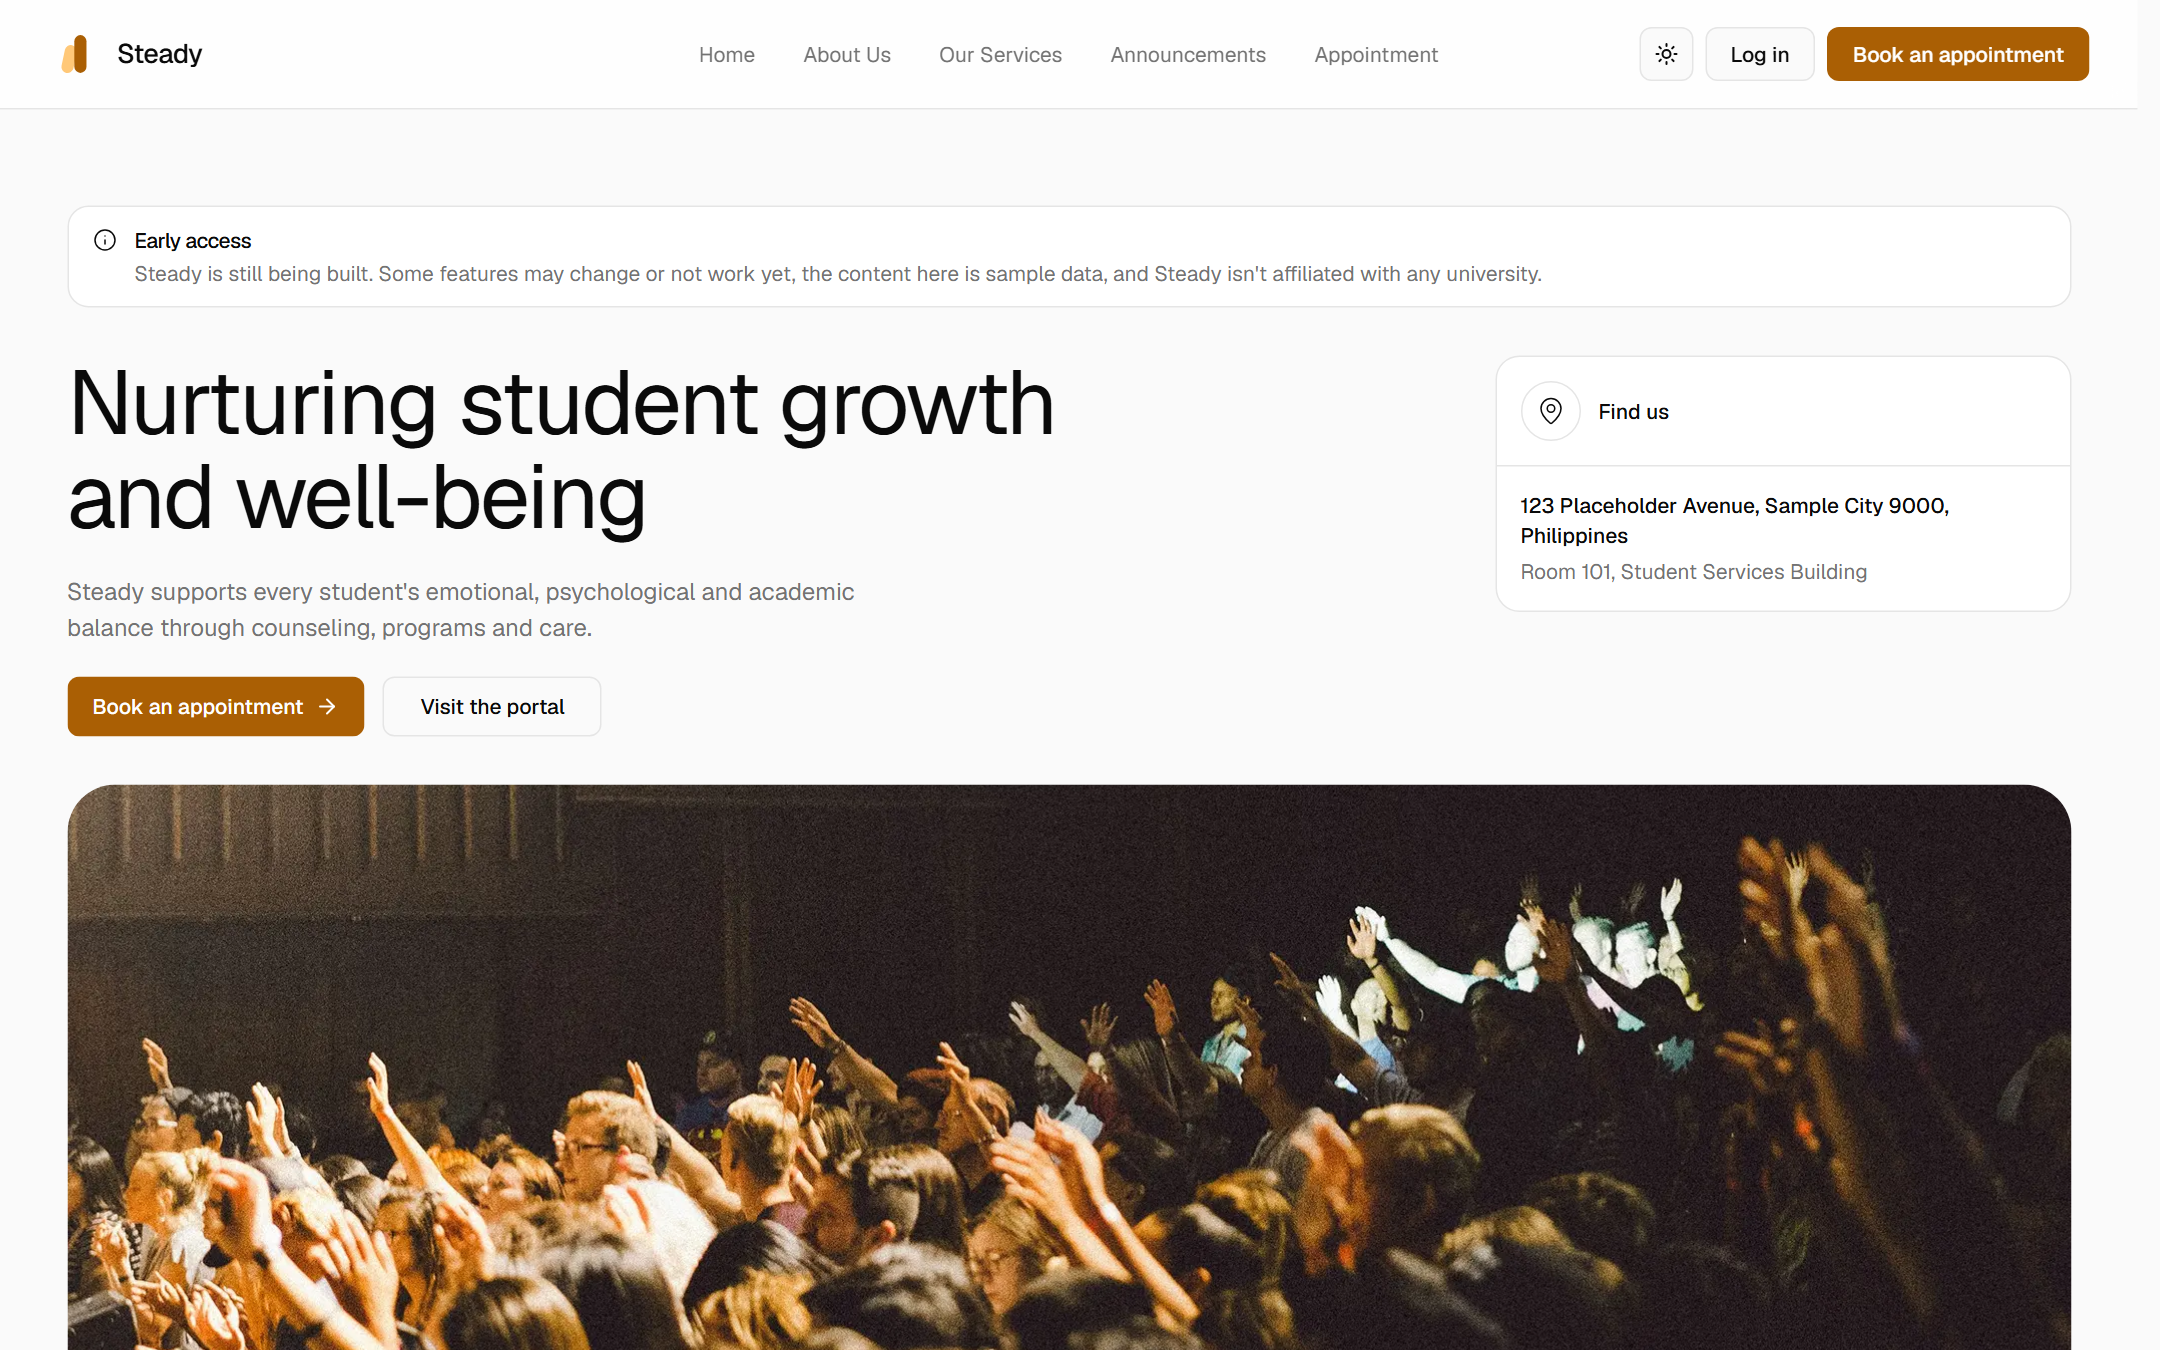
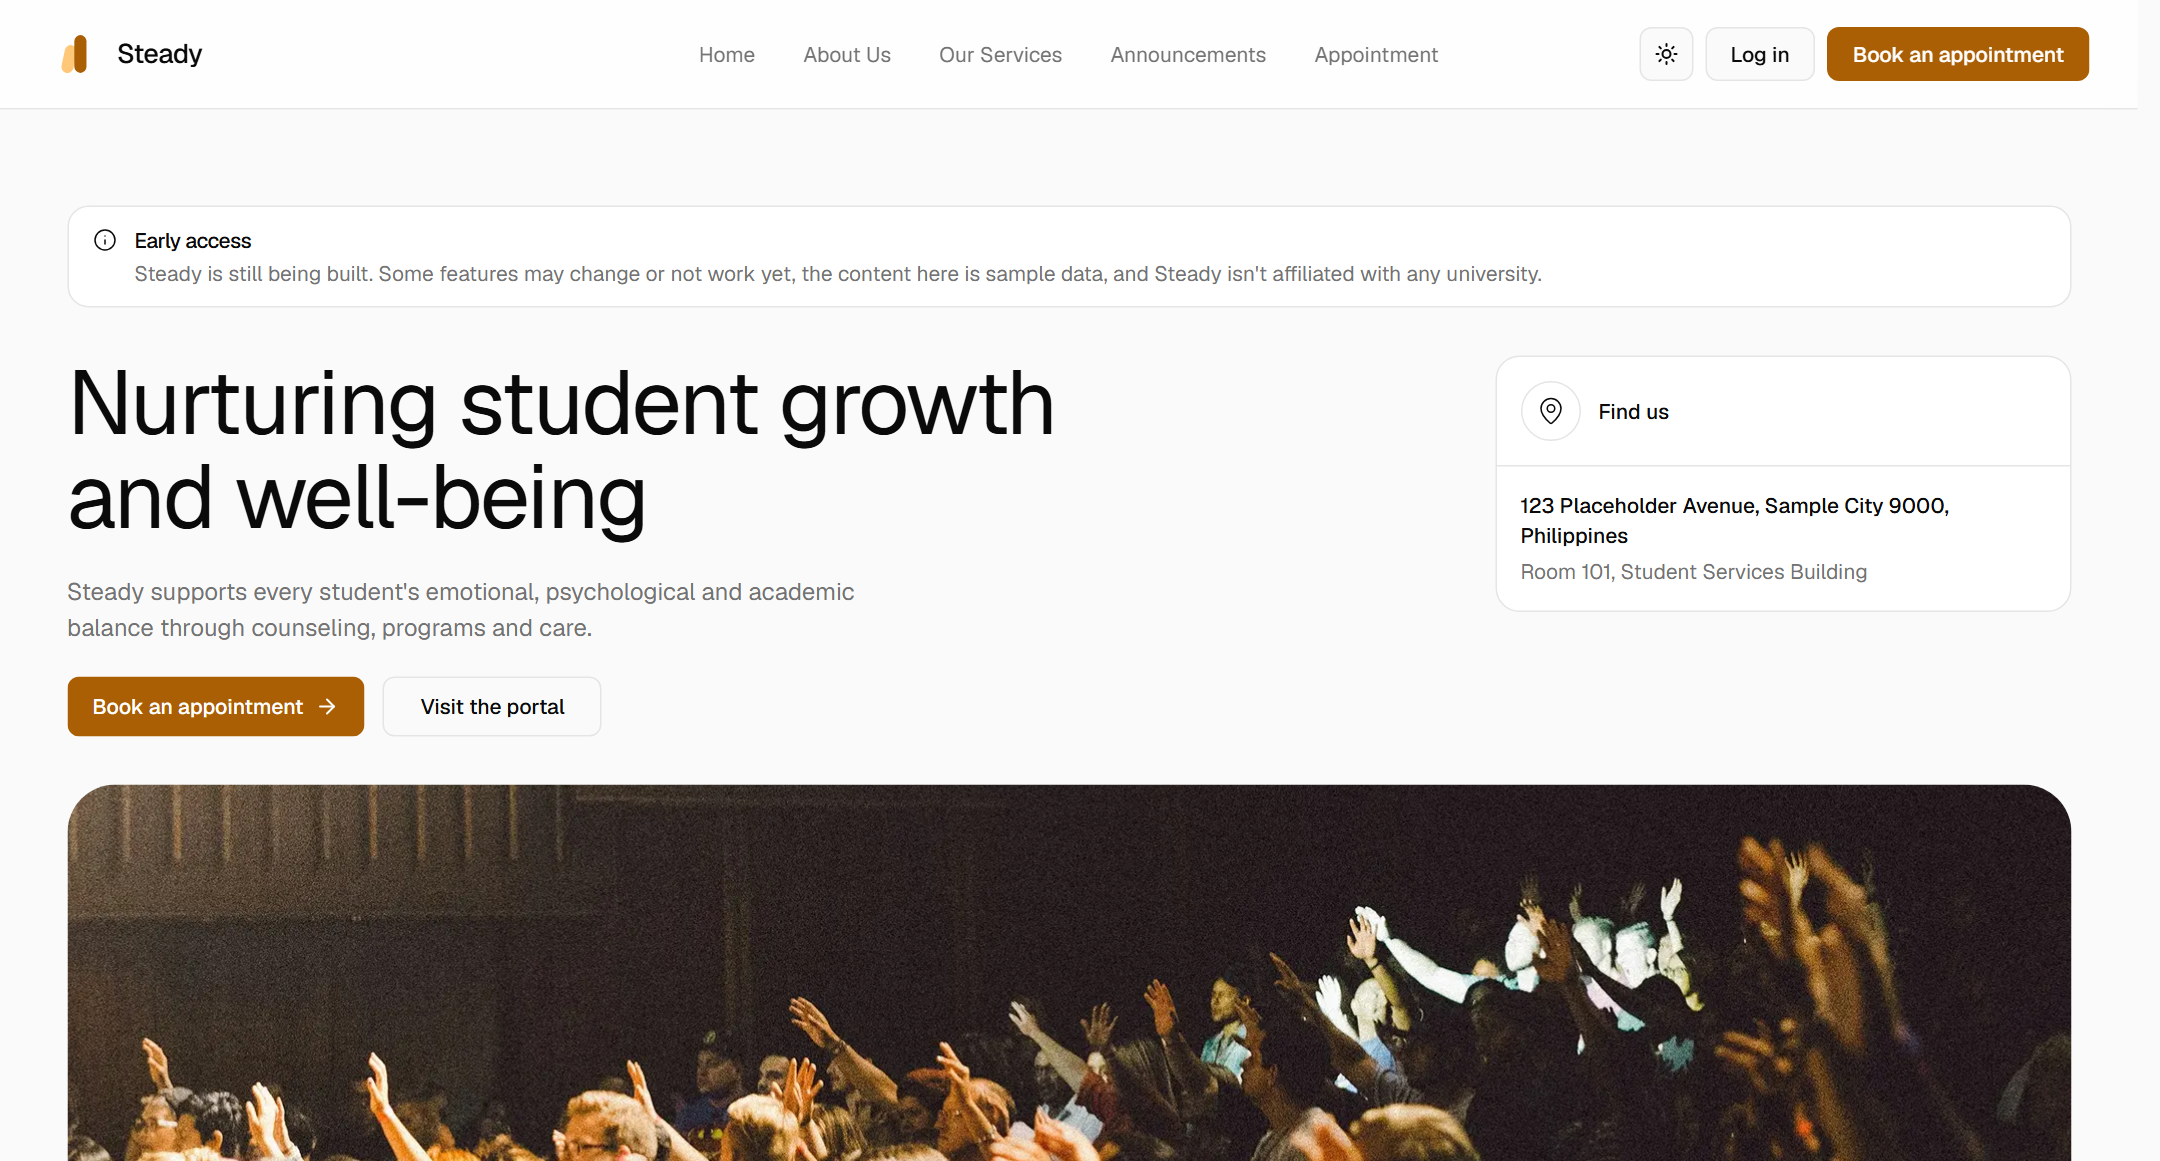
fix: rework steady copy

diff --git a/lib/portfolio-data.ts b/lib/portfolio-data.ts
@@ -144,7 +144,7 @@ export const projectsData: ProjectsData = {
       category: "Major Project / Lead Developer",
       title: "Steady: Student Guidance and Counselling Platform",
       summary:
-        "A platform for booking and managing counselling sessions, with live notifications, mood-based resources and separate areas for students, counsellors and administrators. It began as a university guidance office project, and was later audited, rebuilt and relaunched as Steady — an independent early-access product, not affiliated with any university.",
+        "A web platform for a school’s guidance and counselling office. Students book sessions with their department’s counsellor, check in on how they are feeling, and get articles and playlists picked for that mood. Counsellors decide on requests and keep their own schedule. Administrators run accounts, publish content, and watch the service on a dashboard.",
       links: [
         {
           label: "Live deployment",
@@ -155,17 +155,17 @@ export const projectsData: ProjectsData = {
         {
           id: "steady-home",
           title: "Public homepage",
-          description: "Public landing page with the early-access notice",
+          description: "The public landing page, open to visitors without an account",
           imageSrc: cloudinaryAsset(
             "portfolio/projects/steady/steady-home.png",
           ),
           imageAlt:
-            "Steady public homepage, headed “Nurturing student growth and well-being”.",
+            "Steady homepage, headed “Nurturing student growth and well-being”.",
         },
         {
           id: "steady-portal",
           title: "Resource portal",
-          description: "Curated articles, playlists and events, open to visitors",
+          description: "Curated articles, playlists and events, also open to visitors",
           imageSrc: cloudinaryAsset(
             "portfolio/projects/steady/steady-portal.png",
           ),
@@ -175,12 +175,42 @@ export const projectsData: ProjectsData = {
         {
           id: "steady-signup",
           title: "Student registration",
-          description: "Account creation with enrollment and informed consent",
+          description: "Account creation with enrollment details and informed consent",
           imageSrc: cloudinaryAsset(
             "portfolio/projects/steady/steady-signup.png",
           ),
           imageAlt:
             "Steady student sign-up form covering personal details, enrollment and emergency contacts.",
+        },
+        {
+          id: "steady-student",
+          title: "Student dashboard",
+          description: "Mood check-in, profile and emergency contacts in one place",
+          imageSrc: cloudinaryAsset(
+            "portfolio/projects/steady/steady-student.png",
+          ),
+          imageAlt:
+            "Steady student dashboard with a mood check-in, profile details and emergency contacts.",
+        },
+        {
+          id: "steady-admin-dashboard",
+          title: "Analytics dashboard",
+          description: "Requests, pending sessions and visitor trend for the office",
+          imageSrc: cloudinaryAsset(
+            "portfolio/projects/steady/steady-admin-dashboard.png",
+          ),
+          imageAlt:
+            "Steady admin dashboard showing appointment counts, registered students and a site-visitor chart.",
+        },
+        {
+          id: "steady-admin-accounts",
+          title: "Account administration",
+          description: "Server-paginated account table with the record editor open",
+          imageSrc: cloudinaryAsset(
+            "portfolio/projects/steady/steady-admin-accounts.png",
+          ),
+          imageAlt:
+            "Steady admin accounts table with a student record open for editing.",
         },
       ],
       stack: {
@@ -221,27 +251,31 @@ export const projectsData: ProjectsData = {
         {
           title: "Role",
           description:
-            "Lead developer, on a team of five, submitted as a project research paper in December 2025 — with Gerlie Campion, Francis Adrian Esteban, Jhey Gulde, and Kathleen Grace Gultiano. I later audited, rebuilt and rebranded it on my own.",
+            "Lead developer, on a team of five, submitted as a project research paper in December 2025 — with Gerlie Campion, Francis Adrian Esteban, Jhey Gulde, and Kathleen Grace Gultiano.",
         },
         {
           title: "Timeline",
-          description:
-            "About 4 months for the original build, then a solo rebuild in September 2026.",
+          description: "About 4 months.",
         },
         {
           title: "Approach",
           description:
-            "Three roles — student, counsellor, admin — that get genuinely different areas rather than the same screens with buttons hidden. Access control lives in the database, not the interface: row-level security on every table, plus guard triggers for the rules the UI cannot be trusted with, like a student cancelling only their own booking or a slot refusing to be double-booked. Notifications work the same way — only database triggers create them, so no client can forge one, and they arrive live over a websocket.",
+            "Three roles — student, counsellor, admin — that get genuinely different areas rather than the same screens with buttons hidden. Students book, reschedule and cancel; counsellors accept, decline and complete requests and set their own working hours; admins manage accounts, publish content and read the dashboard. Reads are plain functions that work the same in a server component or a query hook, and every write is a server action that checks the role and validates against the same schema the form used.",
         },
         {
-          title: "The rebuild",
+          title: "Confidentiality",
           description:
-            "A full audit of the original found around 120 defects across authentication, the database, notifications and the UI. The data layer, auth and notifications were rebuilt; the interface moved onto a documented design system with tokens and a dark theme; and the product was renamed with its own logo and legal pages, dropping the university’s branding. A 29-check SQL suite now runs against the live database as each role to prove the access boundary holds, alongside 73 unit tests in CI.",
+            "The access boundary lives in the database rather than the interface. Row-level security on every table means a counsellor sees only the students in their departments and a student sees only their own records. Guard triggers cover what the UI cannot be trusted with — a student cancelling only their own booking, a held slot refusing to be double-booked, nobody but an admin moving a student between departments. Notifications are created only by database triggers, so no client can forge one, and they arrive live over a websocket. A 29-check SQL suite runs against the database as each role to prove all of it holds, alongside 73 unit tests in CI.",
+        },
+        {
+          title: "Interface",
+          description:
+            "Everything is built on a documented design system — semantic colour tokens, a set type scale, and 17 shared components — which is what made a full dark theme a token swap instead of a rewrite. Loading, empty and error states are all drawn differently, so a failed load never reads as an empty list, and skeletons follow each page’s real layout. Contrast is checked by script before any colour change.",
         },
         {
           title: "Outcome",
           description:
-            "The original was pitched to the guidance office and approved, but never deployed — it was a school project, and development stopped after submission. Steady is now up as an early-access demo running on sample data, with the honest notice to match. You can click through it.",
+            "We pitched it to the guidance office and they approved it, but it was never deployed — it was a school project, and development stopped after submission. It is up as an early-access demo running on sample data, with a notice saying so and confirming it isn’t affiliated with any university. You can click through it.",
         },
       ],
     },

diff --git a/lib/image-manifest.ts b/lib/image-manifest.ts
@@ -1,6 +1,6 @@
 // GENERATED FILE — do not edit by hand.
 // Regenerate with: node scripts/build-image-manifest.mjs
-// Source: public/portfolio (35 images, set 255058e1)
+// Source: public/portfolio (38 images, set df014d4e)
 
 export type ImageMeta = {
   width: number;
@@ -202,23 +202,41 @@ export const imageManifest: Record<string, ImageMeta> = {
     blurDataURL:
[1 lines of base64/hex data omitted]
   },
+  "portfolio/projects/steady/steady-admin-accounts.png": {
+    width: 1894,
+    height: 1023,
+    blurDataURL:
[1 lines of base64/hex data omitted]
+  },
+  "portfolio/projects/steady/steady-admin-dashboard.png": {
+    width: 1898,
+    height: 1020,
+    blurDataURL:
[1 lines of base64/hex data omitted]
+  },
   "portfolio/projects/steady/steady-home.png": {
     width: 2160,
-    height: 1350,
+    height: 1161,
     blurDataURL:
[2 lines of base64/hex data omitted]
   },
   "portfolio/projects/steady/steady-portal.png": {
     width: 2160,
-    height: 1350,
+    height: 1161,
     blurDataURL:
[2 lines of base64/hex data omitted]
   },
   "portfolio/projects/steady/steady-signup.png": {
     width: 2160,
-    height: 1350,
+    height: 1161,
     blurDataURL:
[2 lines of base64/hex data omitted]
+  },
+  "portfolio/projects/steady/steady-student.png": {
+    width: 1902,
+    height: 1015,
+    blurDataURL:
[1 lines of base64/hex data omitted]
   },
 };
 
